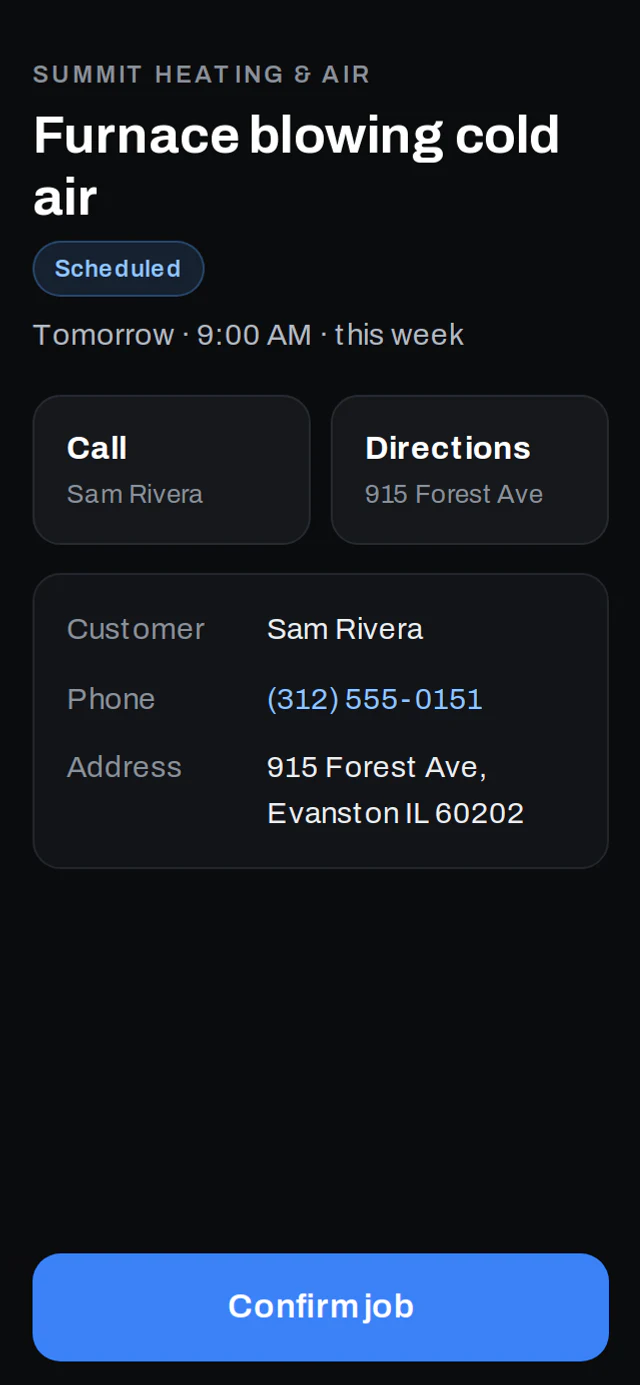
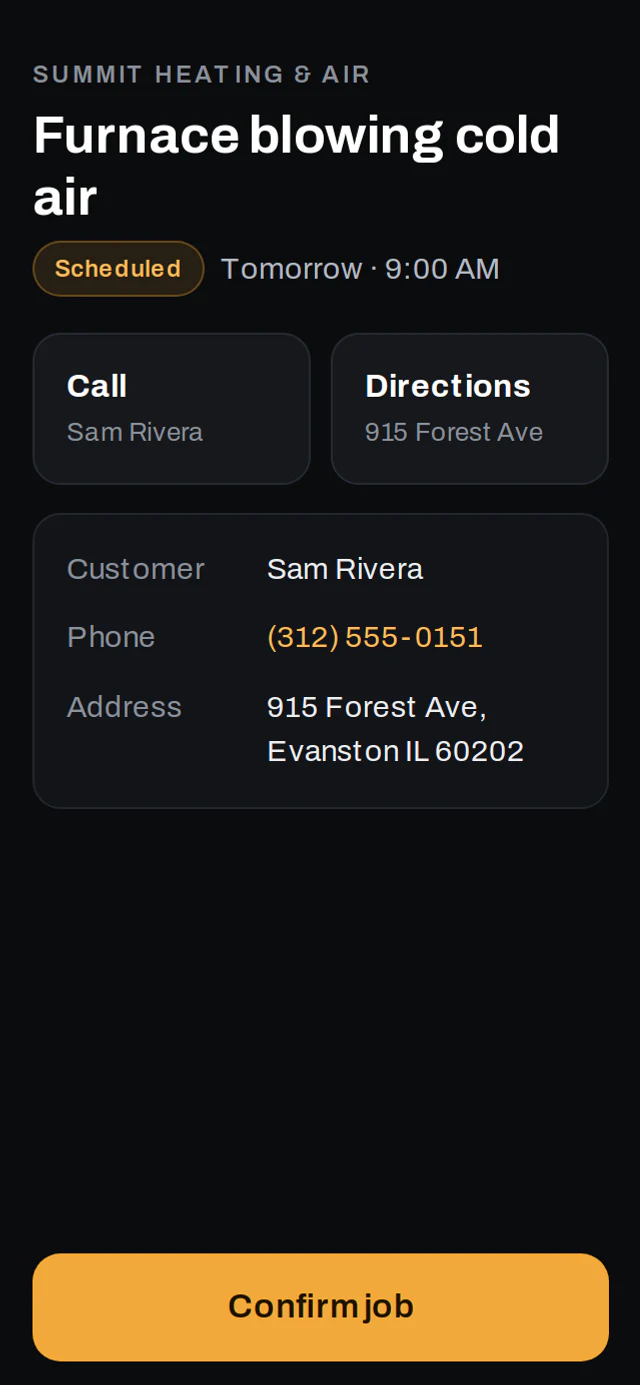
One accent: amber replaces blue on settings toggles and field pages

diff --git a/src/app/public-field.css b/src/app/public-field.css
@@ -59,9 +59,9 @@
   border-radius: 999px;
   font-size: 0.75rem;
   font-weight: 600;
-  background: rgba(96, 165, 250, 0.14);
-  color: #93c5fd;
-  border: 1px solid rgba(96, 165, 250, 0.28);
+  background: rgba(242, 169, 59, 0.12);
+  color: #f7bb5c;
+  border: 1px solid rgba(242, 169, 59, 0.3);
 }
 .pf-pill.is-risk {
   background: rgba(248, 113, 113, 0.14);
@@ -133,7 +133,7 @@
   word-break: break-word;
 }
 .pf-row a {
-  color: #93c5fd;
+  color: #f7bb5c;
   text-decoration: none;
 }
 .pf-h2,
@@ -171,7 +171,7 @@
 .pf-input:focus,
 .pf select:focus,
 .pf textarea:focus {
-  outline: 2px solid #3b82f6;
+  outline: 2px solid #f2a93b;
   outline-offset: 1px;
   border-color: transparent;
 }
@@ -201,11 +201,12 @@
   min-height: 3.375rem;
   border: 0;
   border-radius: 14px;
-  background: #3b82f6;
+  background: #f2a93b;
+  color: #1b1203;
   font-size: 1.0625rem;
 }
 .pf-btn--primary:active {
-  background: #2563eb;
+  background: #f7bb5c;
 }
 
 .pf-error {

diff --git a/src/components/tech-field-client.tsx b/src/components/tech-field-client.tsx
@@ -165,7 +165,7 @@ export function TechFieldClient({ token }: { token: string }) {
           <span className={`pf-pill${emergency ? " is-risk" : job.status === "completed" ? " is-done" : ""}`}>
             {emergency ? "Emergency" : STATUS_LABEL[job.status] ?? job.status}
           </span>
-          {[when, urgency].filter(Boolean).join(" · ")}
+          {when ?? urgency}
         </p>
       </header>
 

diff --git a/src/app/dashboard/settings-center.css b/src/app/dashboard/settings-center.css
@@ -484,7 +484,7 @@
 }
 
 .sc-switch.is-on {
-  background: #2f7cf6;
+  background: var(--ox-amber);
 }
 
 .sc-switch:disabled {
